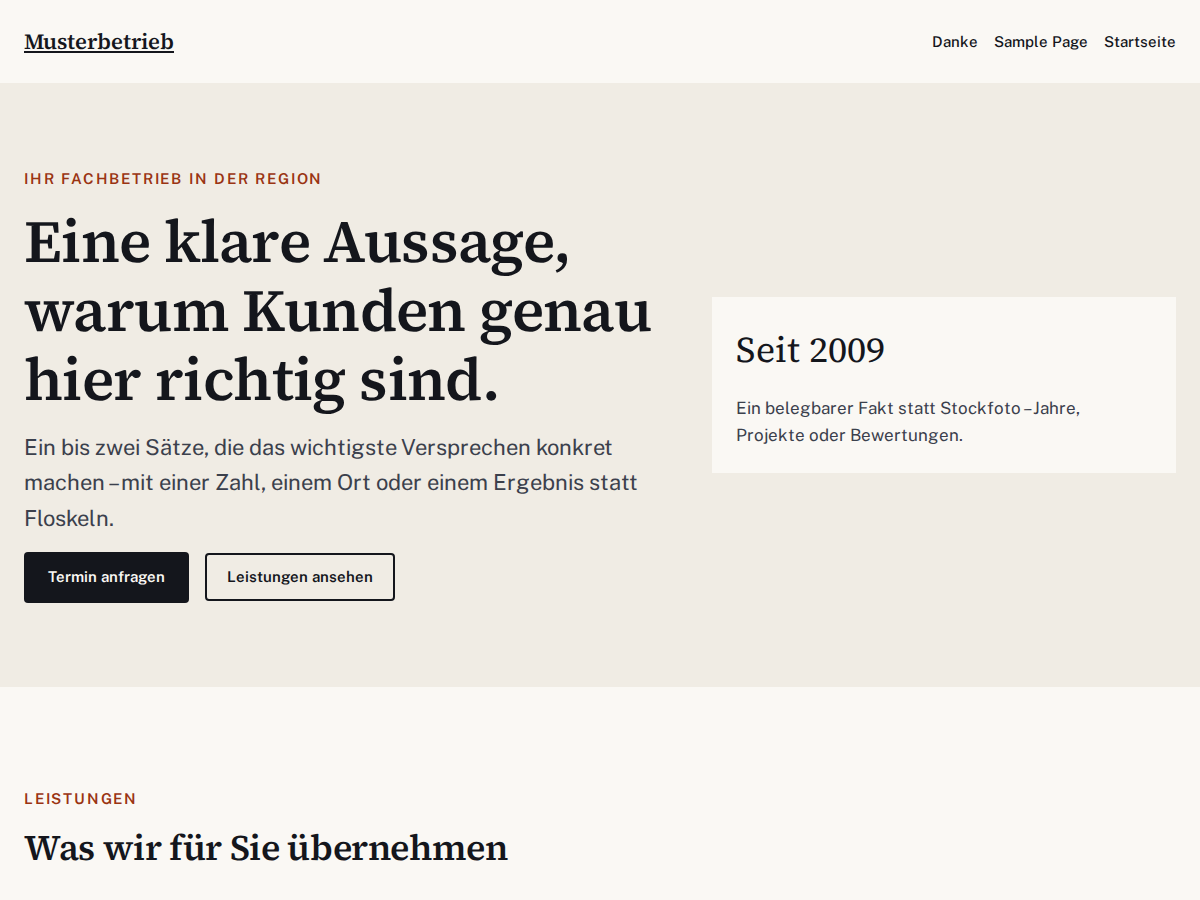
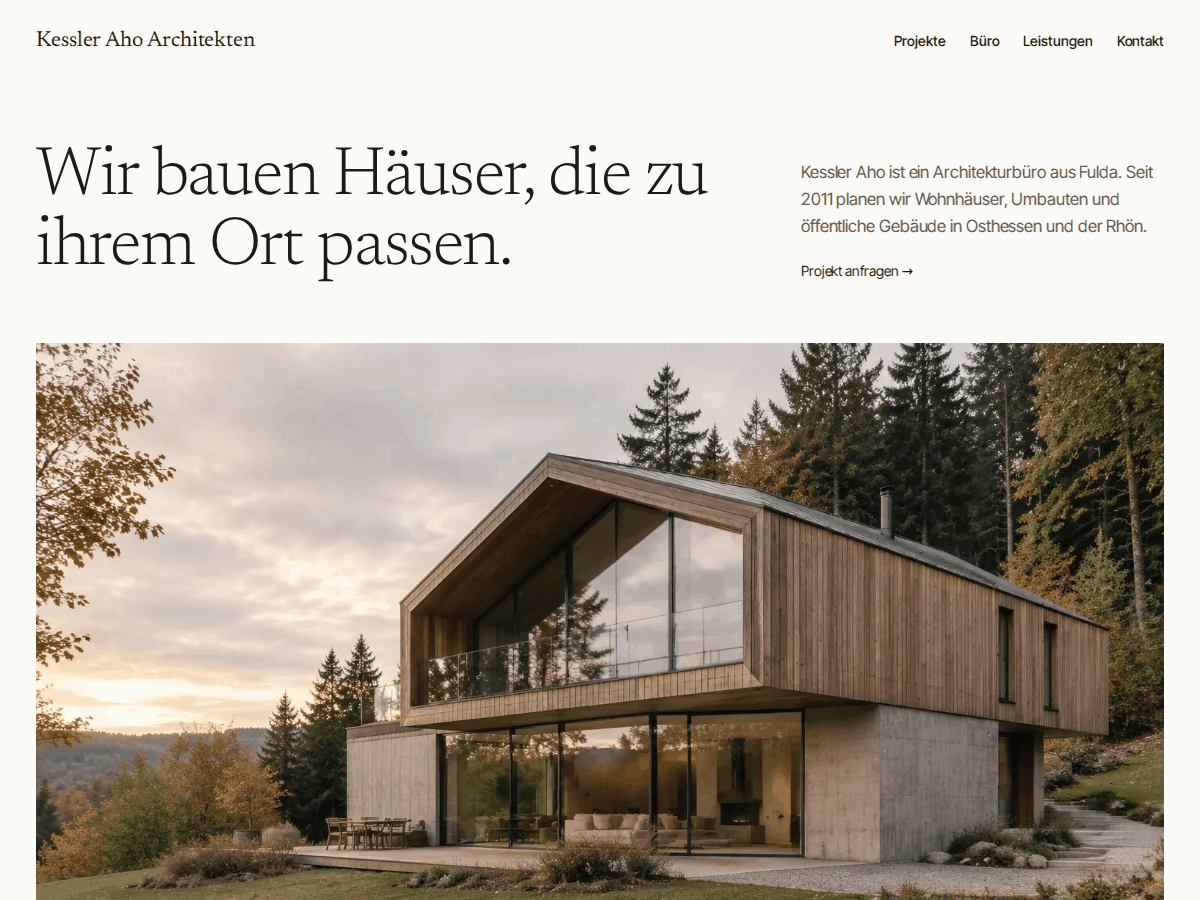
Playground-Demo, README und Screenshot für Version 1.1.0

diff --git a/style.css b/style.css
@@ -3,13 +3,13 @@ Theme Name:        Webfire Starter
 Theme URI:         https://webfire-marketing.com
 Author:            Webfire Marketing (Bombach & Garrett GbR)
 Author URI:        https://webfire-marketing.com
-Description:       Schlankes Block-Theme als Startpunkt für Kundenprojekte: theme.json als Design-System, eigene Patterns, ein serverseitiger Kontaktformular-Block mit Danke-Seite – ohne Page-Builder und ohne Plugin-Abhängigkeiten.
+Description:       Ruhiges, redaktionelles Block-Theme für Büros und Studios: theme.json als Design-System, Inhaltstyp „Projekte“ mit Block Bindings, eigene Patterns und ein serverseitiger Kontaktformular-Block mit Danke-Seite – ohne Page-Builder und ohne Plugin-Abhängigkeiten.
 Requires at least: 6.5
 Tested up to:      6.8
 Requires PHP:      8.1
-Version:           1.0.0
+Version:           1.1.0
 License:           GPL-2.0-or-later
 License URI:       https://www.gnu.org/licenses/gpl-2.0.html
 Text Domain:       webfire-starter
-Tags:              block-theme, full-site-editing, one-column, custom-colors, editor-style
+Tags:              block-theme, full-site-editing, portfolio, grid-layout, custom-colors, editor-style
 */

diff --git a/README.md b/README.md
@@ -1,8 +1,10 @@
 # Webfire Starter
 
-Schlankes WordPress-Block-Theme, mit dem wir bei [Webfire Marketing](https://webfire-marketing.com) neue Kundenprojekte beginnen.
+Ruhiges, redaktionelles WordPress-Block-Theme, mit dem wir bei [Webfire Marketing](https://webfire-marketing.com) Websites für Büros, Studios und Praxen beginnen. Als Beispielinhalt dient das fiktive Architekturbüro *Kessler Aho Architekten*.
 
 Kein Page-Builder, keine Plugin-Abhängigkeiten, kein Build-Step. Das Design-System steckt in `theme.json`, die Inhalte in Patterns, und PHP übernimmt nur, was dort nicht hingehört.
+
+**[▶ Live-Demo im Browser öffnen](https://playground.wordpress.net/?blueprint-url=https://raw.githubusercontent.com/Webfire-Marketing/webfire-starter/main/blueprint.json)** – startet über WordPress Playground eine komplette WordPress-Installation mit diesem Theme und Demo-Inhalten. Nichts wird installiert, alles läuft im Browser.
 
 ![Screenshot](screenshot.png)
 
@@ -10,10 +12,12 @@ Kein Page-Builder, keine Plugin-Abhängigkeiten, kein Build-Step. Das Design-Sys
 
 | Bereich | Umsetzung |
 |---|---|
-| Design-System | `theme.json`: Farbpalette, fluide Schriftgrößen, Abstands-Skala, Element-Styles für Links, Buttons und Überschriften |
-| Schriften | Public Sans und Source Serif 4 als Variable Fonts, **lokal gehostet** (kein Google-Fonts-Request, DSGVO-freundlich) |
-| Templates | `index`, `front-page`, `page`, `single`, `404` als Block-Templates, Header und Footer als Template-Parts |
-| Patterns | Hero, Leistungen (bewusst asymmetrisch: eine Hauptleistung, zwei Ergänzungen), FAQ mit `details`, Kontakt, komplette Startseite |
+| Design-System | `theme.json`: zurückhaltende Palette, fluide Schriftgrößen, Abstands-Skala, Element-Styles für Links, Buttons und Überschriften |
+| Schriften | Newsreader und Inter Tight als Variable Fonts, **lokal gehostet** (kein Google-Fonts-Request, DSGVO-freundlich) |
+| Inhaltstyp „Projekte“ | `inc/projects.php`: Custom Post Type mit Archiv unter `/projekte/`, Meta-Felder Ort, Jahr und Leistung |
+| Block Bindings | Die Meta-Felder werden in Templates und Patterns über `core/post-meta` ausgegeben – ohne ACF, Shortcodes oder eigene Blöcke |
+| Templates | `front-page`, `archive-projekt`, `single-projekt`, `page`, `page-no-title`, `single`, `index`, `404` |
+| Patterns | Hero, Projekt-Raster (Query Loop), Büro, Leistungen, Kontakt, komplette Startseite; Header, Footer und 404 als Patterns, damit Links über `home_url()` auch in Unterordner-Installationen stimmen |
 | Eigener Block | `webfire/kontaktformular`: serverseitig gerendert, Einstellungen in der Seitenleiste, ohne Build-Step |
 | Formular-Backend | `inc/contact-form.php`: Nonce, Honeypot, Zeitfalle statt Captcha, Validierung, `wp_mail()`, Redirect auf eine Danke-Seite (für saubere Conversion-Messung), Schutz vor offenen Redirects |
 | Aufräumen | `inc/cleanup.php`: Emoji-Skripte, Generator-Tag und XML-RPC aus, Autoren-Archive umgeleitet – jeder Eingriff einzeln kommentiert |
@@ -24,25 +28,32 @@ Kein Page-Builder, keine Plugin-Abhängigkeiten, kein Build-Step. Das Design-Sys
 webfire-starter/
 ├── assets/
 │   ├── css/theme.css          # nur, was theme.json nicht abbildet
-│   └── fonts/                 # Variable Fonts + Lizenzen
+│   ├── fonts/                 # Variable Fonts + Lizenzen
+│   └── images/                # Demo-Bilder (WebP)
 ├── blocks/kontaktformular/    # block.json, render.php, index.js, style.css
 ├── inc/
 │   ├── setup.php              # Supports, Assets, Block- und Pattern-Registrierung
+│   ├── projects.php           # Inhaltstyp „Projekte“ + Meta-Felder
 │   ├── cleanup.php
 │   └── contact-form.php
 ├── parts/                     # header.html, footer.html
-├── patterns/                  # hero, leistungen, faq, kontakt, startseite
+├── patterns/
 ├── templates/
+├── blueprint.json             # Demo-Setup für WordPress Playground
 ├── functions.php
 ├── style.css
 └── theme.json
 ```
 
-## Installation
+## Lokal ansehen
+
+**Im Browser (am schnellsten):** Link „Live-Demo“ oben öffnen. Playground lädt das Theme direkt aus diesem Repository, legt fünf Beispielprojekte, Impressum, Datenschutz und Danke-Seite an und meldet dich im Backend an.
+
+**In einer lokalen WordPress-Installation** (z. B. mit [Local](https://localwp.com)):
 
 1. Ordner `webfire-starter` nach `wp-content/themes/` kopieren (oder als ZIP über *Design → Themes → Hochladen*).
-2. Theme aktivieren.
-3. Neue Seite anlegen → WordPress bietet das Pattern **„Startseite komplett“** an.
+2. Theme aktivieren und unter *Einstellungen → Permalinks* einmal speichern.
+3. Unter *Projekte* ein paar Einträge mit Beitragsbild anlegen; Ort, Jahr und Leistung pflegst du im Bereich *Individuelle Felder* (im Editor unter *Optionen → Einstellungen → Bedienfelder* einblenden).
 4. Seite `/danke/` anlegen – dorthin leitet das Kontaktformular nach dem Absenden weiter.
 5. Empfänger der Anfragen ist die Admin-E-Mail. Anpassen per Filter:
 
@@ -55,10 +66,12 @@ Voraussetzungen: WordPress 6.5+, PHP 8.1+.
 ## Entscheidungen
 
 - **Block-Theme statt Classic Theme:** Kunden pflegen Inhalte im Editor, ohne dass ein Page-Builder Ladezeit und Abhängigkeiten mitbringt.
+- **Block Bindings statt ACF:** Seit WordPress 6.5 lassen sich Meta-Felder direkt an Absatz-Blöcke binden. Das spart ein Plugin und bleibt im Editor sichtbar.
 - **Kein Build-Step:** Der Block nutzt die WordPress-Globals direkt. Das hält das Theme wartbar, auch für Leute, die kein Node-Setup haben.
 - **Danke-Seite statt Inline-Meldung:** Eine eigene URL nach dem Absenden macht Anfragen in Analytics zuverlässig messbar.
 - **Spam-Schutz ohne Captcha:** Honeypot und Zeitfalle halten die meisten Bots fern, ohne echte Besucher zu nerven oder Drittanbieter einzubinden.
+- **Inhaltstyp im Theme:** Bei Kundenprojekten gehört ein Post Type in ein Plugin, damit Inhalte einen Theme-Wechsel überleben. Für dieses Starter-Theme bleibt alles bewusst an einem Ort.
 
 ## Lizenz
 
-GPL-2.0-or-later. Schriften: SIL Open Font License 1.1.
+GPL-2.0-or-later. Schriften: SIL Open Font License 1.1. Demo-Bilder sind KI-generiert und dürfen frei mit dem Theme verwendet werden.
